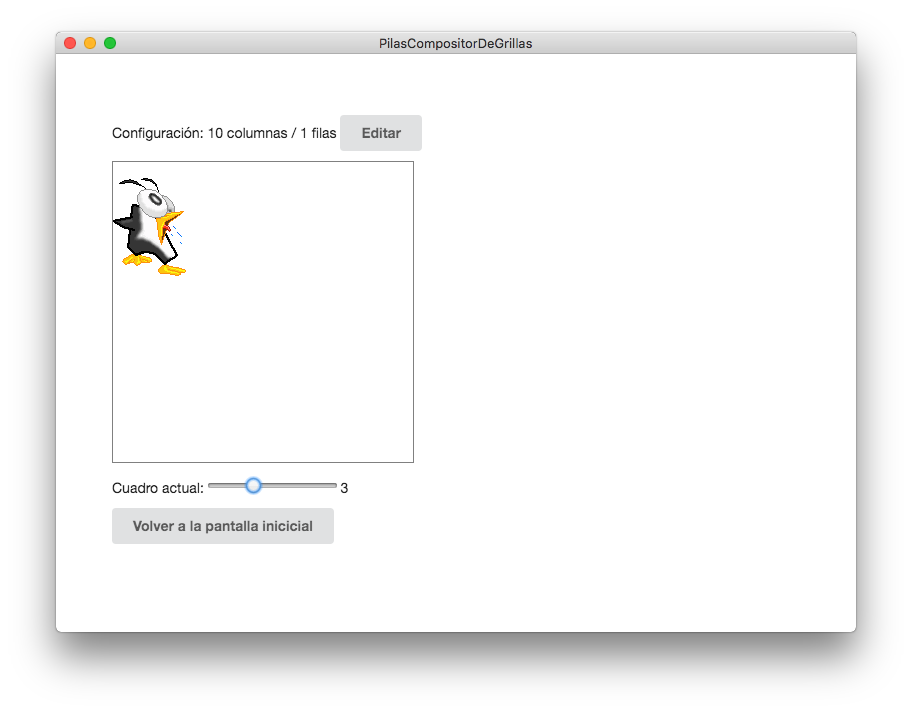
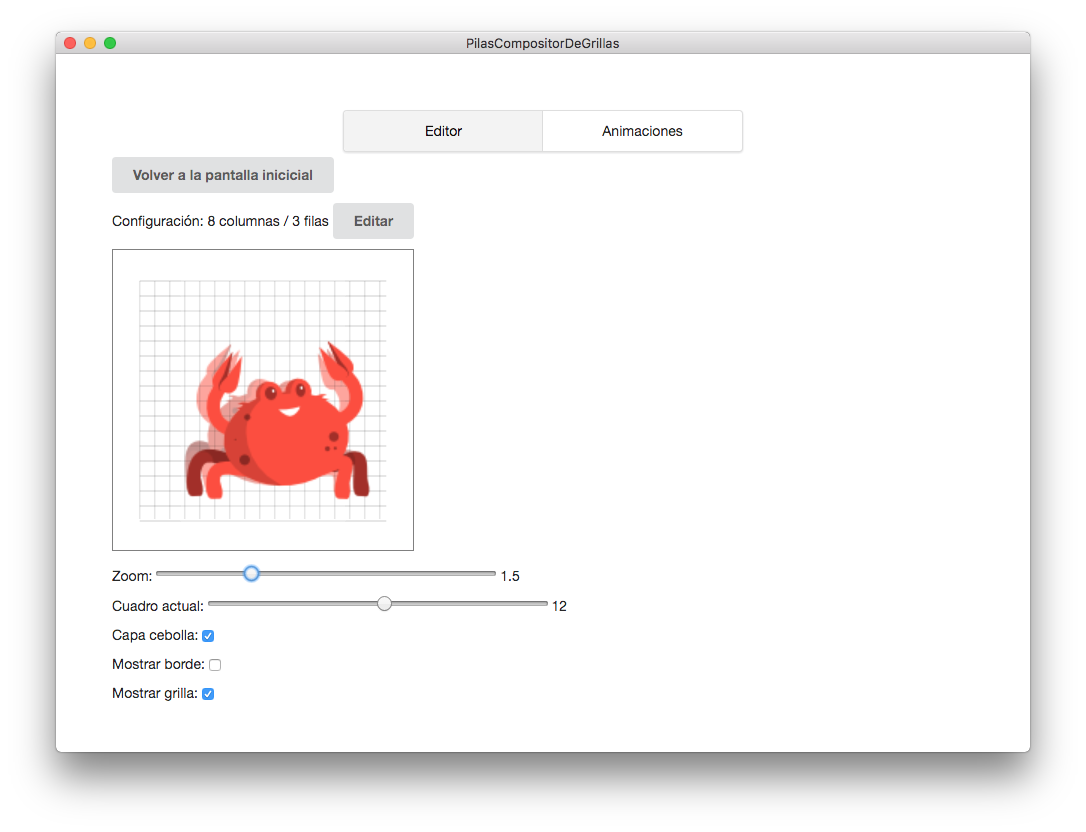
Agregando opción de visualizar una grilla y corrigiendo visualización para grillas con columnas o filas impares.

Changed region(s): [[0.0307, 0.0309, 0.9518, 0.9579], [0.0921, 0.1236, 0.4605, 0.618], [0.5526, 0.1545, 0.6447, 0.1854]]

diff --git a/app/components/pilas-frame.js b/app/components/pilas-frame.js
@@ -36,7 +36,7 @@ export default Ember.Component.extend({
     this.get('imageElement').src = `${path}?random=${random}`;
   },
 
-  mustRedraw: Ember.observer('cols', 'rows', 'border', 'onionSkin', 'currentFrame', 'zoom', function() {
+  mustRedraw: Ember.observer('cols', 'rows', 'border', 'grid', 'onionSkin', 'currentFrame', 'zoom', function() {
     this.redraw();
   }),
 
@@ -47,6 +47,7 @@ export default Ember.Component.extend({
     let canvas = this.get('canvasElement');
     let zoom = this.get('zoom');
     let border = this.get('border');
+    let grid = this.get('grid');
 
     if (isNaN(cols) || isNaN(rows)) {
       console.warn("Evitando dibujar porque las filas y columnas no están bien definidas.");
@@ -62,6 +63,8 @@ export default Ember.Component.extend({
     let frameWidth = width / this.get('cols');
     let frameHeight = height / this.get('rows');
 
+    ctx.imageSmoothingEnabled = false;
+
     ctx.save();
     ctx.clearRect(0, 0, canvas.width, canvas.height);
 
@@ -69,10 +72,26 @@ export default Ember.Component.extend({
     ctx.scale(zoom, zoom);
     ctx.translate(-frameWidth / 2, -frameHeight / 2);
 
+    let dx = Math.floor(currentFrame % cols);
+    let dy = Math.floor(currentFrame / cols);
+
 
     if (currentFrame > 0 && onionSkin) {
+      let dx_anterior = Math.floor((currentFrame - 1) % cols);
+      let dy_anterior = Math.floor((currentFrame - 1) / cols);
+
       ctx.globalAlpha = 0.5;
-      ctx.drawImage(image, (currentFrame -1) * frameWidth, 0, frameWidth, frameHeight, 0, 0, frameWidth, frameHeight);
+      ctx.drawImage(image,
+                    dx_anterior * frameWidth,     // source x
+                    dy_anterior * frameHeight,    // source y
+
+                    frameWidth,          // source width
+                    frameHeight,         // source height
+
+                    0, 0,                // dest x, y
+                    frameWidth,          // dest width
+                    frameHeight);        // dest height
+
       ctx.globalAlpha = 1.0;
     }
 
@@ -80,10 +99,21 @@ export default Ember.Component.extend({
       this._draw_border(ctx, frameWidth, frameHeight);
     }
 
-    let dx = Math.floor(currentFrame % rows);
-    let dy = Math.floor(currentFrame / rows);
+    if (grid) {
+      this._draw_grid(ctx, frameWidth, frameHeight);
+    }
 
-    ctx.drawImage(image, dx * frameWidth, dy * frameHeight, frameWidth, frameHeight, 0, 0, frameWidth, frameHeight);
+
+    ctx.drawImage(image,
+                  dx * frameWidth,     // source x
+                  dy * frameHeight,    // source y
+
+                  frameWidth,          // source width
+                  frameHeight,         // source height
+
+                  0, 0,                // dest x, y
+                  frameWidth,          // dest width
+                  frameHeight);        // dest height
 
     ctx.restore();
   },
@@ -93,6 +123,26 @@ export default Ember.Component.extend({
     ctx.lineWidth = 1.5;
     ctx.strokeStyle = "red";
     ctx.rect(0, 0, frameWidth, frameHeight);
+    ctx.stroke();
+  },
+
+  _draw_grid(ctx, frameWidth, frameHeight) {
+    const gridSize = 10;
+
+    ctx.lineWidth = 1;
+    ctx.strokeStyle = 'rgba(0, 0, 0, 0.1)';
+
+    for (let i=0; i<=frameWidth; i += gridSize) {
+      this._dibujarLinea(ctx, 0, i, frameWidth, i);
+      this._dibujarLinea(ctx, i, 0, i, frameHeight);
+    }
+
+  },
+
+  _dibujarLinea(ctx, x0, y0, x1, y1) {
+    ctx.beginPath();
+    ctx.moveTo(x0, y0);
+    ctx.lineTo(x1, y1);
     ctx.stroke();
   }
 

diff --git a/app/services/live-reload.js b/app/services/live-reload.js
@@ -17,7 +17,8 @@ export default Ember.Service.extend(Ember.Evented, {
           console.log("Notificando cambio de archivo y recargando imagen.");
           this.trigger('change');
         } else {
-          console.warn(`Error, el archivo observado ('${path}') cambió de nombre o se eliminó.`);
+          console.warn(`Error, el archivo observado ('${path}') cambió de nombre o se eliminó. Se disparará el evento de todas formas.`);
+          this.trigger('change');
         }
       });
     }

diff --git a/app/controllers/editor/index.js b/app/controllers/editor/index.js
@@ -1,7 +1,7 @@
 import Ember from 'ember';
 
 export default Ember.Controller.extend({
-  queryParams: ['currentFrame', 'onionSkin', 'zoom'],
+  queryParams: ['currentFrame', 'onionSkin', 'zoom', 'grid', 'border'],
   currentFrame: 0,
   onionSkin: false,
   totalFrames: Ember.computed('model.cols', 'model.rows', function() {

diff --git a/app/styles/app.css b/app/styles/app.css
@@ -58,3 +58,12 @@ a.active {
   color: black;
   background-color: #eee;
 }
+
+.contenedor-input {
+  width: 400px;
+  display: inline-block;
+}
+
+.contenedor-input input {
+  width: 85%;
+}
